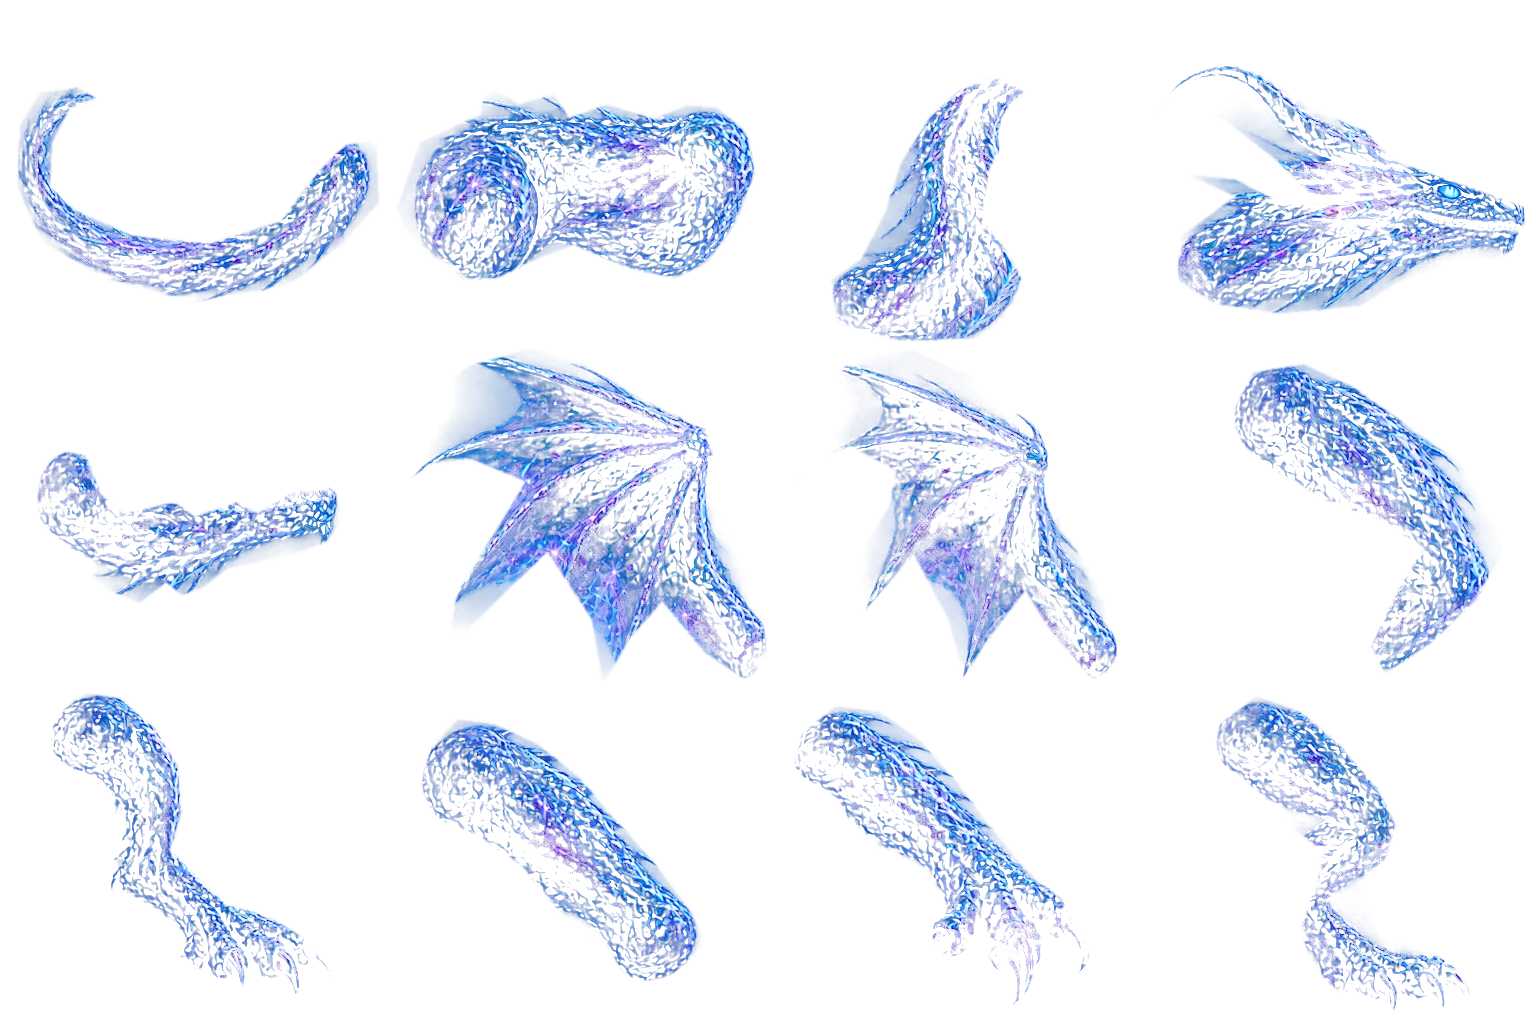
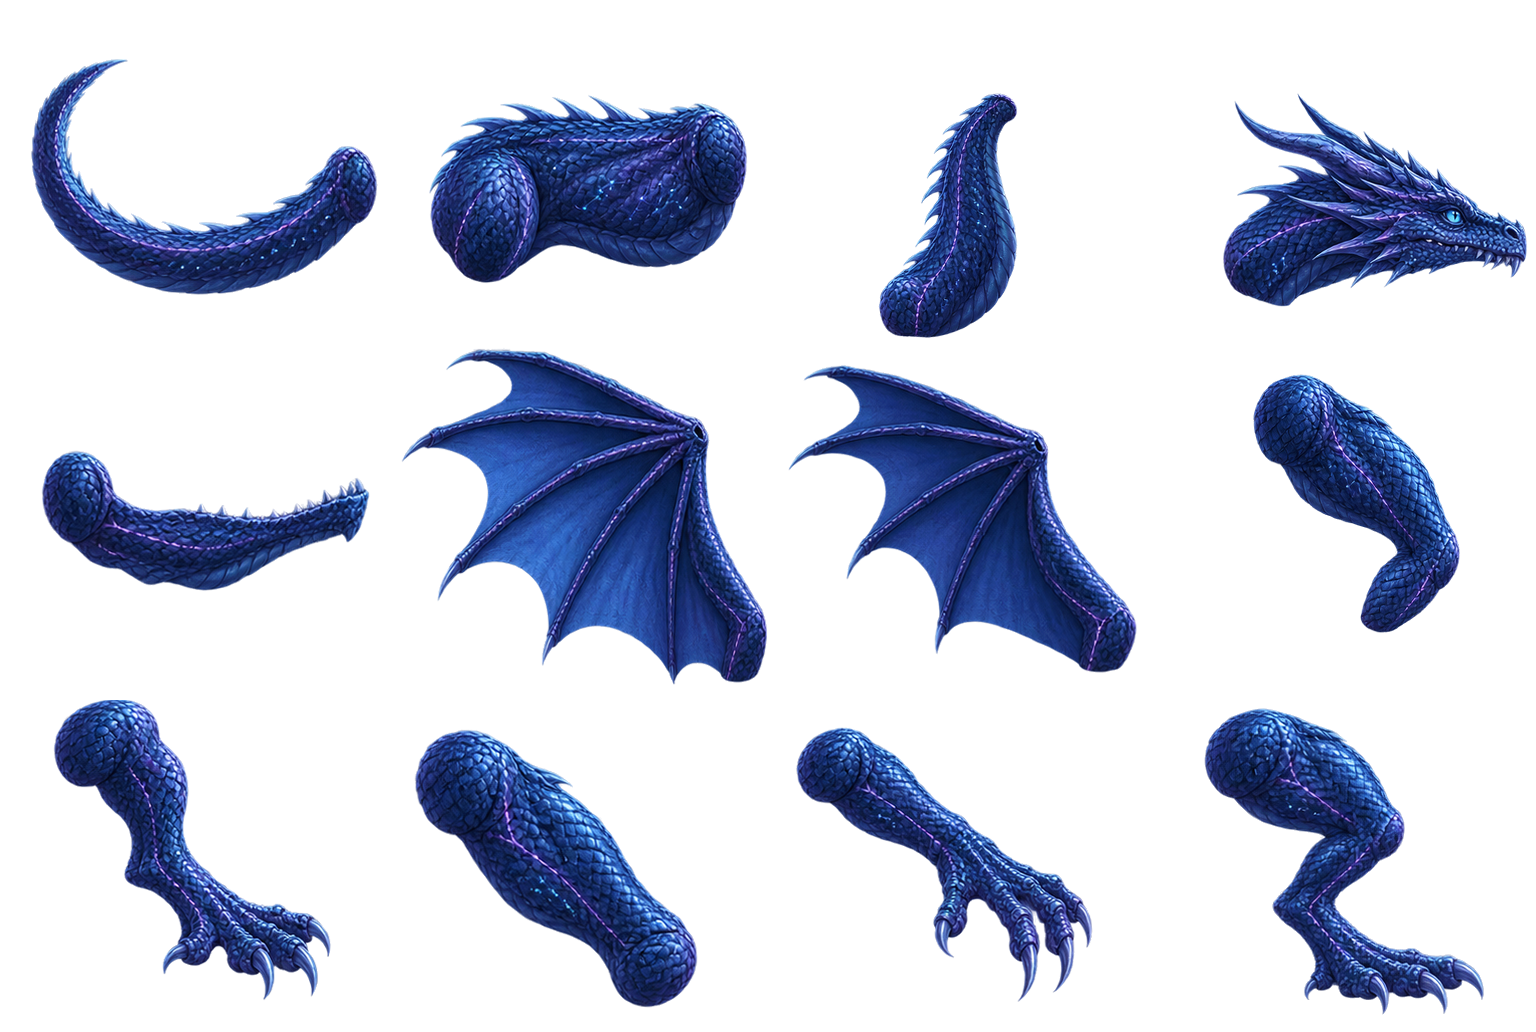
Add files via upload

diff --git a/js/dragon-rig.js b/js/dragon-rig.js
@@ -1,6 +1,6 @@
 /* Original joint-overlap artwork; one shared atlas, no pose crossfades or extra animation loop. */
 const CosmicDragonRig=(()=>{
-  const asset='images/cosmic-dragon-rig.webp?v=jointed-20261106-1';
+  const asset='images/cosmic-dragon-rig.webp?v=premium-anatomy-20261107-2';
   const rad=Math.PI/180,clamp=x=>Math.max(0,Math.min(1,x)),ease=x=>{x=clamp(x);return x*x*(3-2*x);};
   const mix=(a,b,t)=>a+(b-a)*t;
   const matrix=(x,y,angle=0,sx=1,sy=sx)=>{
@@ -14,29 +14,97 @@ const CosmicDragonRig=(()=>{
   ];
   const parts=[
     ['tail',0,350,185,.82],
-    ['far-wing',6,320,290,.88,.8],
-    ['far-thigh',7,150,70,95/Math.hypot(120,180),.55],
-    ['far-shin',8,100,55,110/Math.hypot(160,230),.55],
-    ['far-arm',9,90,95,100/244,.6],
-    ['far-hand',10,80,85,118/269,.6],
+    ['far-wing',6,320,290,.88,.72],
+    ['far-thigh',7,150,70,95/Math.hypot(120,180),.76],
+    ['far-shin',8,100,55,110/Math.hypot(160,230),.76],
+    ['far-arm',9,90,95,100/244,.72],
+    ['far-hand',10,80,85,118/269,.72],
     ['thigh',7,150,70,95/Math.hypot(120,180)],
     ['shin',8,100,55,110/Math.hypot(160,230)],
+    ['wing',5,350,300,.88],
     ['body',1,95,210,.78],
     ['neck',2,150,300,.63],
-    ['wing',5,350,300,.88],
     ['arm',9,90,95,100/244],
     ['hand',10,80,85,118/269],
     ['head',3,190,245,.65],
     ['jaw',4,76,150,.3575]
   ];
+  const grids={
+    wing:[[0,175,350,384],[0,150,300,344]],
+    'far-wing':[[0,160,320,384],[0,145,290,344]],
+    tail:[[0,120,240,350,384],[0,185,344]],
+    neck:[[0,150,225,384],[0,110,300,344]]
+  };
+  const surfaces={};
+  for(const [name,,px,py,scale] of parts){
+    const grid=grids[name];
+    if(!grid)continue;
+    const [xs,ys]=grid,vertices=ys.flatMap(y=>xs.map(x=>({x:(x-px)*scale,y:(y-py)*scale})));
+    const triangles=[];
+    for(let y=0;y<ys.length-1;y++)for(let x=0;x<xs.length-1;x++){
+      const a=y*xs.length+x,b=a+1,c=a+xs.length,d=c+1;
+      triangles.push([a,b,d],[a,d,c]);
+    }
+    surfaces[name]={vertices,triangles};
+  }
   const cache=new WeakMap();
+  let instance=0;
   function markup(){
+    const prefix=`dragon-surface-${++instance}`;
+    const image=(cell,x,y,scale)=>`<svg x="${-x*scale}" y="${-y*scale}"
+      width="${384*scale}" height="${344*scale}"
+      viewBox="${cell%4*384} ${Math.floor(cell/4)*344} 384 344" overflow="hidden">
+      <image href="${asset}" width="1536" height="1032"/></svg>`;
     return `<svg class="dragon-rig" viewBox="0 0 800 600" aria-hidden="true" focusable="false">
       ${parts.map(([name,cell,x,y,scale,opacity=1])=>`<g data-bone="${name}" opacity="${opacity}">
-        <svg x="${-x*scale}" y="${-y*scale}" width="${384*scale}" height="${344*scale}"
-          viewBox="${cell%4*384} ${Math.floor(cell/4)*344} 384 344" overflow="hidden">
-          <image href="${asset}" width="1536" height="1032"/>
-        </svg></g>`).join('')}</svg>`;
+        ${name==='head'?'<path data-mouth-interior fill="#09182b" stroke="#233f60" stroke-width=".5"/>':''}
+        ${surfaces[name]?surfaces[name].triangles.map((triangle,index)=>{
+          const id=`${prefix}-${name}-${index}`;
+          return `<defs><clipPath id="${id}" clipPathUnits="userSpaceOnUse">
+            <polygon points="${triangle.map(i=>`${surfaces[name].vertices[i].x},${surfaces[name].vertices[i].y}`).join(' ')}"/>
+            </clipPath></defs><g data-surface="${name}" data-triangle="${index}">
+            <g clip-path="url(#${id})">${image(cell,x,y,scale)}</g></g>`;
+        }).join(''):image(cell,x,y,scale)}</g>`).join('')}</svg>`;
+  }
+  function deform(name,p,sample){
+    const {seconds,still,stage,fire}=sample.motion;
+    const moving=still?0:1;
+    if(name==='wing'||name==='far-wing'){
+      const far=name==='far-wing',reach=clamp(-p.x/300);
+      const phase=seconds*2.2-reach*2.7+(far?-.85:0);
+      const stretch=(5+ease(stage)*3)*moving;
+      const membrane=1+clamp((p.y+240)/240)*.35;
+      const folded=reach*(1-reach)*(1-ease(stage))*18*moving;
+      return {x:p.x+reach*reach*Math.sin(phase)*2.3*moving,
+        y:p.y+folded+reach*reach*(Math.sin(phase)*stretch*membrane
+          +fire*Math.sin(seconds*7.4-reach*4)*1.5*moving)};
+    }
+    if(name==='tail'){
+      const reach=clamp(-p.x/287),wave=Math.sin(seconds*1.4-reach*3.8);
+      return {x:p.x+reach*reach*wave*2*moving,
+        y:p.y+reach*reach*(wave*8+Math.sin(seconds*.7-reach*2)*3)*moving};
+    }
+    if(name==='neck'){
+      const reach=clamp(-p.y/189);
+      const curve=reach*reach*(Math.sin(seconds*1.65-reach)*2
+        +fire*Math.sin(seconds*12-reach*.8)*1.3)*moving;
+      return {x:p.x+curve,y:p.y+reach*Math.sin(seconds*1.65-.5)*.8*moving};
+    }
+    return p;
+  }
+  function surfaceMatrices(name,sample){
+    const {vertices,triangles}=surfaces[name];
+    const warped=vertices.map(p=>deform(name,p,sample));
+    return triangles.map(([i,j,k])=>{
+      const a=vertices[i],b=vertices[j],c=vertices[k],u=warped[i],v=warped[j],w=warped[k];
+      const dx=b.x-a.x,dy=b.y-a.y,ex=c.x-a.x,ey=c.y-a.y,det=dx*ey-dy*ex;
+      const m=[((v.x-u.x)*ey-(w.x-u.x)*dy)/det,
+        ((v.y-u.y)*ey-(w.y-u.y)*dy)/det,
+        ((w.x-u.x)*dx-(v.x-u.x)*ex)/det,
+        ((w.y-u.y)*dx-(v.y-u.y)*ex)/det,0,0];
+      m[4]=u.x-m[0]*a.x-m[2]*a.y;m[5]=u.y-m[1]*a.x-m[3]*a.y;
+      return m;
+    });
   }
   function limb(root,end,upper,lower,bend){
     const dx=end.x-root.x,dy=end.y-root.y;
@@ -46,42 +114,54 @@ const CosmicDragonRig=(()=>{
     const knee={x:root.x+Math.cos(angle)*upper,y:root.y+Math.sin(angle)*upper};
     return {knee,upper:angle,lower:Math.atan2(end.y-knee.y,end.x-knee.x)};
   }
-  function pose(stage=0,seconds=0,fire=0,still=false){
+  function pose(stage=0,seconds=0,fire=0,still=false,returning=false){
+    stage=Math.max(0,Math.min(2,stage));fire=clamp(fire);
     const rise=ease(stage),brace=ease(stage-1);
-    const interpolate=(sitting,standing,attacking)=>mix(mix(sitting,standing,rise),attacking,brace);
+    const interpolate=(sitting,standing,attacking)=>returning?
+      mix(sitting,attacking,ease(stage/2)):mix(mix(sitting,standing,rise),attacking,brace);
+    const follow=(sitting,standing,attacking,delay)=>
+      returning?interpolate(sitting,standing,attacking):
+      mix(mix(sitting,standing,ease((stage-delay)/(1-delay))),attacking,
+        ease((stage-1-delay)/(1-delay)));
+    const anticipation=returning?0:Math.sin(Math.PI*clamp(stage/.3))**2*(stage<.3?1:0);
     const breath=still?0:Math.sin(seconds*1.65)*1.6;
     const recoil=fire*(still?0:Math.sin(seconds*12)*.6);
-    const hip={x:interpolate(330,350,350),y:interpolate(470,410,438)};
-    const body=matrix(hip.x,hip.y,interpolate(-24,-40,-8)*rad);
+    const hip={x:interpolate(330,350,350)-anticipation*4,
+      y:interpolate(470,410,438)+anticipation*6+breath*.35};
+    const body=matrix(hip.x,hip.y,(interpolate(-24,-40,-8)-anticipation*2+breath*.22)*rad,
+      1+breath*.0014,1+breath*.003);
     const shoulder=point(body,226*.78,-38*.78);
-    const neck=compose(matrix(shoulder.x,shoulder.y+breath),
-      matrix(0,0,(interpolate(-4,-14,10)+recoil)*rad));
-    const skull=point(neck,75*.63,-190*.63);
-    const headAngle=(interpolate(-3,-12,-2)+recoil)*rad;
+    const motion={seconds:still?0:seconds,stage,fire,still};
+    const neck=compose(matrix(shoulder.x,shoulder.y),
+      matrix(0,0,(follow(-4,-14,10,.08)+recoil+breath*.3)*rad));
+    const skullJoint=deform('neck',{x:75*.63,y:-190*.63},{motion});
+    const skull=point(neck,skullJoint.x,skullJoint.y);
+    const headAngle=(follow(-3,-12,-2,.14)+recoil+breath*.24)*rad;
     const head=matrix(skull.x,skull.y,headAngle);
-    const jawOpen=interpolate(3,13,29);
-    const jaw=compose(head,matrix(26*.65,12*.65,jawOpen*rad));
+    const jawOpen=follow(2,10,25,.18);
+    const jawFlutter=still?0:fire*Math.sin(seconds*10-.5)*.8;
+    const jaw=compose(head,matrix(26*.65,12*.65,(jawOpen+jawFlutter)*rad));
     const mouth=point(head,169*.65,9+fire*8);
     const wingMotion=still?0:Math.sin(seconds*2.2)*interpolate(1.2,3.8,2)
       +fire*Math.sin(seconds*7.4+.8)*.7;
     const farWingMotion=still?0:Math.sin(seconds*2.2-.8)*interpolate(1,3,1.7)
       +fire*Math.sin(seconds*7.4)*.5;
     const wing=matrix(shoulder.x-8,shoulder.y+22,
-      (interpolate(-23,-12,-18)+wingMotion)*rad,
-      interpolate(1.1,1.35,1.4),interpolate(1.02,1.22,1.28));
+      (follow(-23,-12,-18,.1)+wingMotion)*rad,
+      follow(1.1,1.35,1.4,.1),follow(1.02,1.22,1.28,.1));
     const farWing=matrix(shoulder.x+6,shoulder.y+22,
-      (interpolate(-9,-10,-8)+farWingMotion)*rad,
-      -interpolate(.82,1.02,.92),interpolate(.94,.94,1.04));
+      (follow(-9,-10,-8,.16)+farWingMotion)*rad,
+      -follow(.82,1.02,.92,.16),follow(.94,.94,1.04,.16));
     const foot={x:368,y:575},back=limb(hip,foot,95,110,1);
     const farHip={x:hip.x+16,y:hip.y+4},farFoot={x:408,y:568};
     const farBack=limb(farHip,farFoot,95,110,1);
     const armRoot={x:shoulder.x+2,y:shoulder.y+32};
-    const claw={x:interpolate(560,591,621),y:interpolate(568,355,563)};
+    const claw={x:follow(560,591,621,.07),y:follow(568,355,563,.07)};
     const arm=limb(armRoot,claw,100,118,-1);
     const farRoot={x:armRoot.x-16,y:armRoot.y+4};
     const farClaw={x:claw.x-37,y:claw.y-7},farArm=limb(farRoot,farClaw,100,118,-1);
     const bones={
-      tail:matrix(hip.x-12,hip.y+22,(interpolate(-9,-1,-5)+(still?0:Math.sin(seconds*1.4)*4))*rad),
+      tail:matrix(hip.x-12,hip.y+6,(interpolate(-9,-1,-5)+(still?0:Math.sin(seconds*1.4)*2.5))*rad),
       'far-wing':farWing,
       'far-thigh':matrix(farHip.x,farHip.y,farBack.upper-Math.atan2(180,120)),
       'far-shin':matrix(farBack.knee.x,farBack.knee.y,farBack.lower-Math.atan2(230,160)),
@@ -94,12 +174,23 @@ const CosmicDragonRig=(()=>{
       hand:matrix(arm.knee.x,arm.knee.y,arm.lower-Math.atan2(200,180)),
       head,jaw
     };
-    return {bones,mouth,mouthAngle:headAngle,foot,hip,shoulder,claw,jawOpen};
+    const lowerLip=point(matrix(26*.65,12*.65,(jawOpen+jawFlutter)*rad),264*.3575,10*.3575);
+    return {bones,mouth,mouthAngle:headAngle,foot,hip,shoulder,claw,jawOpen,lowerLip,motion};
   }
   function render(root,sample){
     let nodes=cache.get(root);
-    if(!nodes){nodes=[...root.querySelectorAll('[data-bone]')];cache.set(root,nodes);}
-    for(const node of nodes)node.setAttribute('transform',`matrix(${sample.bones[node.dataset.bone].join(' ')})`);
+    if(!nodes){
+      nodes={bones:[...root.querySelectorAll('[data-bone]')],
+        surfaces:[...root.querySelectorAll('[data-surface]')],
+        mouth:root.querySelector('[data-mouth-interior]')};
+      cache.set(root,nodes);
+    }
+    for(const node of nodes.bones)node.setAttribute('transform',`matrix(${sample.bones[node.dataset.bone].join(' ')})`);
+    nodes.mouth.setAttribute('d',`M 14 4 Q 66 2 112 8 L ${sample.lowerLip.x} ${sample.lowerLip.y} Q 48 28 14 18 Z`);
+    const matrices={};
+    for(const name of Object.keys(surfaces))matrices[name]=surfaceMatrices(name,sample);
+    for(const node of nodes.surfaces)
+      node.setAttribute('transform',`matrix(${matrices[node.dataset.surface][Number(node.dataset.triangle)].join(' ')})`);
   }
-  return {asset,markup,pose,render,point};
+  return {asset,markup,pose,render,point,deform,surfaceMatrices,surfaces};
 })();

diff --git a/js/app.js b/js/app.js
@@ -11,6 +11,7 @@ let cosmicDragon=null,dragonGesture=null;
 const JOINED_WHEEL_HOLD_MS=450,JOINED_WHEEL_CHARGE_MS=3600;
 const JOINED_WHEEL_IMPACT_MS=700;
 const JOINED_WHEEL_BURST_MS=1800,JOINED_WHEEL_REFORM_MS=3800;
+const DRAGON_FIRE_TAIL_MS=216,DRAGON_SETTLE_MS=800;
 const headingSphereMotion=window.matchMedia('(prefers-reduced-motion: reduce)');
 const phoneLayout=window.matchMedia('(any-pointer:coarse) and (max-width:600px), (any-pointer:coarse) and (max-height:500px)');
 let searchRenderTimer=0;
@@ -713,17 +714,21 @@ function cosmicDragonPose(frame){
   if(!dragon)return null;
   const ease=value=>value*value*(3-2*value);
   const progress=Math.max(0,Math.min(1,frame.progress));
+  const returning=frame.phase==='burst'||frame.phase==='reforming';
+  const settle=frame.phase==='burst'?
+    Math.max(0,Math.min(1,(progress*JOINED_WHEEL_BURST_MS-DRAGON_FIRE_TAIL_MS)/DRAGON_SETTLE_MS)):1;
   const stage=frame.phase==='charging'?
     (progress<.42?progress/.42:1+Math.min(1,(progress-.42)/.24)):
-    frame.phase==='reforming'?2*(1-ease(Math.min(1,progress/.9))):
-      frame.phase==='impact'||frame.phase==='burst'?2:0;
+    frame.phase==='burst'?2*(1-ease(settle)):frame.phase==='impact'?2:0;
   const fire=frame.phase==='charging'?ease(Math.max(0,Math.min(1,(progress-.68)/.14))):
-    frame.phase==='impact'?1:frame.phase==='burst'?Math.max(0,1-progress/.12):0;
-  const rig=CosmicDragonRig.pose(stage,joinedWheelEffect.startedAt/1000+(frame.energy||0),fire,frame.phase==='calm');
+    frame.phase==='impact'?1:frame.phase==='burst'?
+      Math.max(0,1-progress*JOINED_WHEEL_BURST_MS/DRAGON_FIRE_TAIL_MS):0;
+  const rig=CosmicDragonRig.pose(stage,joinedWheelEffect.startedAt/1000+(frame.energy||0),
+    fire,frame.phase==='calm',returning);
   return {...dragon,dx:0,dy:0,scale:1,stage,rig,
     mouthAngle:rig.mouthAngle,mouthX:dragon.x+dragon.width*(rig.mouth.x/800-.5),
     mouthY:dragon.y+dragon.height*(rig.mouth.y/600-.5),
-    state:frame.phase==='reforming'?'settling':stage===0?'sitting':
+    state:stage===0?'sitting':returning?(fire?'attacking':'settling'):
       stage<1?'rising':stage<2?'bracing':'attacking',
     fire};
 }

diff --git a/index.html b/index.html
@@ -18,7 +18,7 @@
     updateHomeScreenDisplay();
   </script>
   <title>Tin Lung Heen Master Wine List</title>
-  <link rel="stylesheet" href="css/style.css?v=dragon-majestic-wings-20261106-2" />
+  <link rel="stylesheet" href="css/style.css?v=dragon-direct-settle-20261107-1" />
 
   <style id="remote-lock-styles">
     body.remote-lock-active{overflow:hidden}
@@ -84,7 +84,7 @@
   <script defer src="https://www.gstatic.com/firebasejs/12.4.0/firebase-database-compat.js"></script>
   <script defer src="data/wines.js?v=toolbar-spacing-20261104-1"></script>
   <script defer src="js/catalogue.js?v=toolbar-spacing-20261104-1"></script>
-  <script defer src="js/dragon-rig.js?v=dragon-majestic-wings-20261106-2"></script>
-  <script defer src="js/app.js?v=dragon-majestic-wings-20261106-2"></script>
+  <script defer src="js/dragon-rig.js?v=dragon-direct-settle-20261107-1"></script>
+  <script defer src="js/app.js?v=dragon-direct-settle-20261107-1"></script>
 </body>
 </html>

diff --git a/css/style.css b/css/style.css
@@ -2317,12 +2317,12 @@ html.manager-mode:lang(en) .hero h2{font-style:oblique 8deg}
 .cosmic-dragon::before,.cosmic-dragon::after{content:"";position:absolute;pointer-events:none}
 .cosmic-dragon::before{
   inset:10% 6% 8%;
-  background:radial-gradient(ellipse,rgba(148,103,255,.15),rgba(60,225,255,.05) 36%,transparent 66%);
+  background:radial-gradient(ellipse,rgba(92,133,196,.09),rgba(60,225,255,.025) 36%,transparent 66%);
 }
 .cosmic-dragon::after{
   left:17%;width:66%;height:8.333333%;bottom:0;border-radius:50%;
-  border:1px solid rgba(118,208,255,.18);
-  background:radial-gradient(ellipse,rgba(131,115,255,.22),rgba(70,220,255,.08) 45%,transparent 72%);
+  border:1px solid rgba(118,208,255,.12);
+  background:radial-gradient(ellipse,rgba(4,10,22,.52),rgba(35,61,96,.19) 45%,transparent 72%);
 }
 .cosmic-dragon-art{display:block;position:relative;z-index:1;width:100%;height:100%;pointer-events:none}
 .cosmic-dragon-art[hidden]{display:none}
